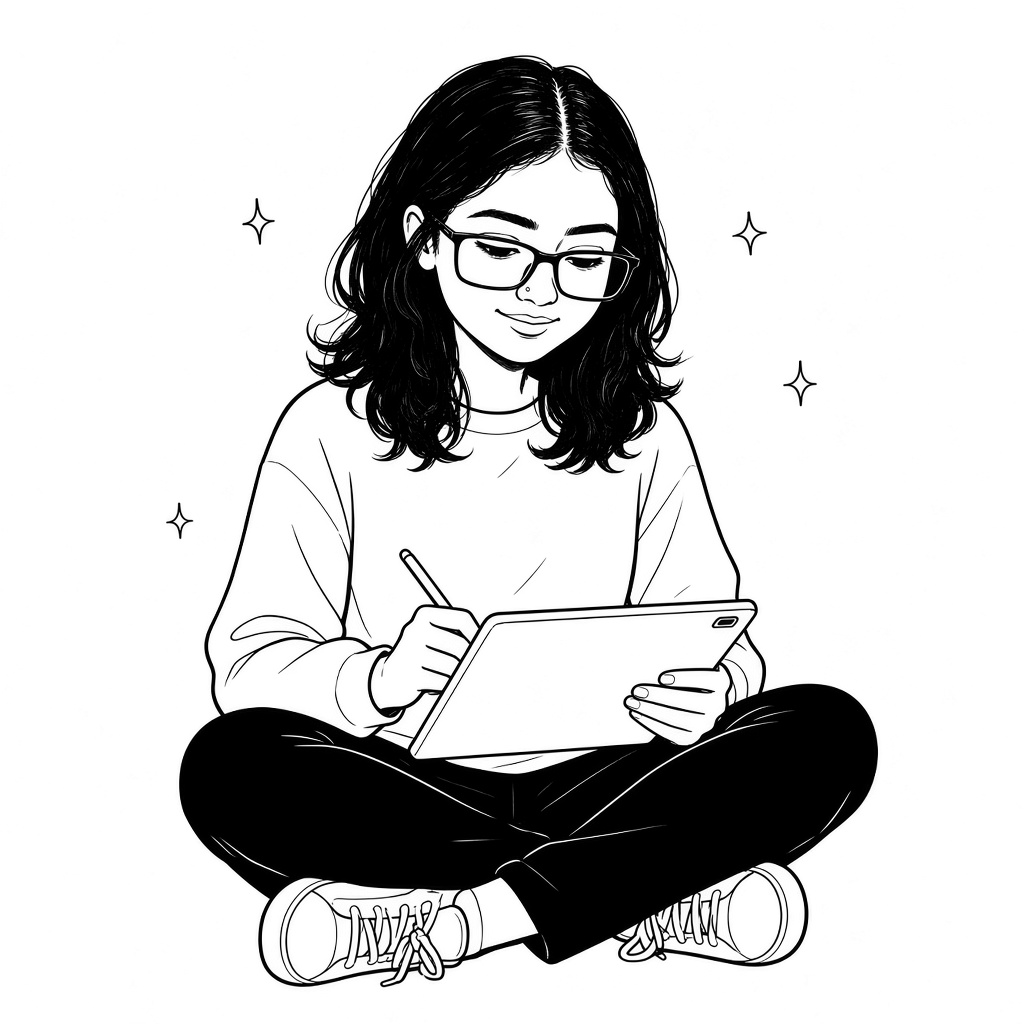
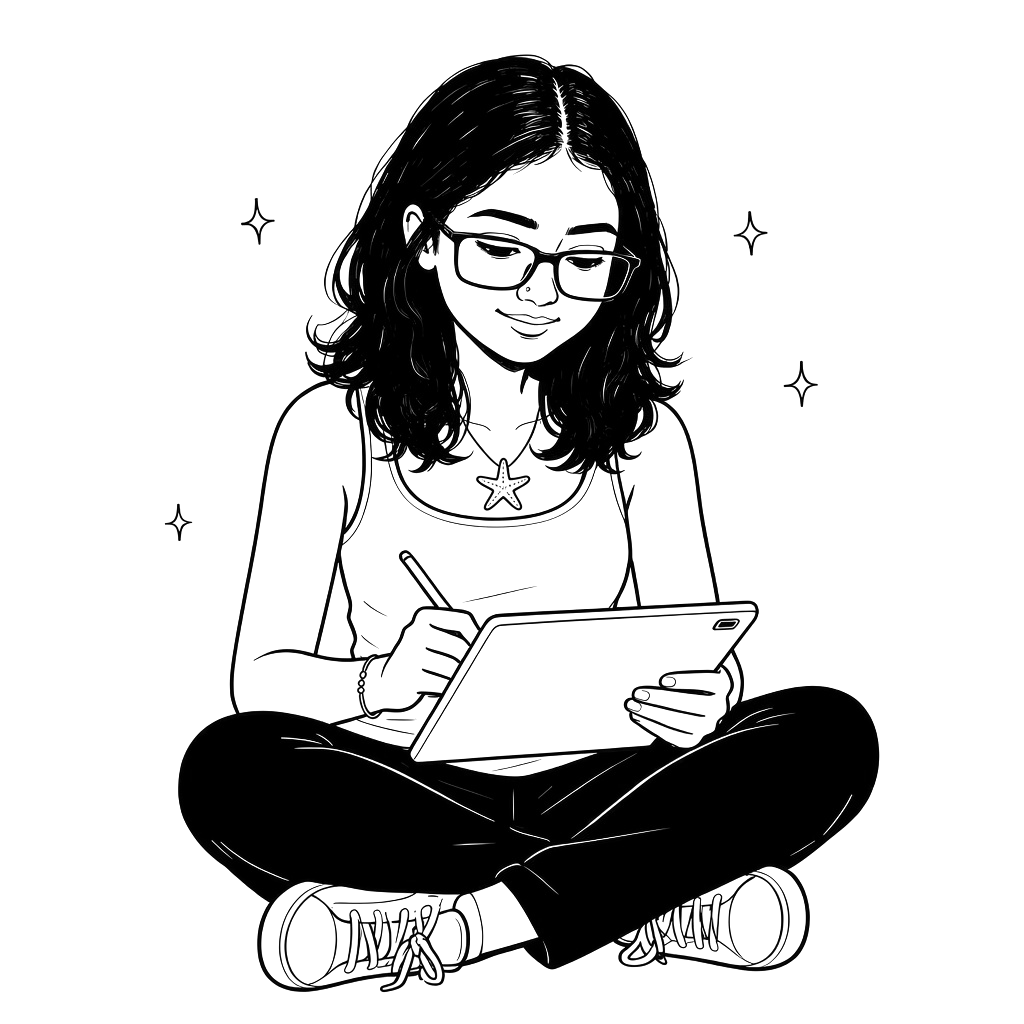
Update the hero illustration for dark mode and align the footer with the homepage.

diff --git a/src/components/SiteFooter.tsx b/src/components/SiteFooter.tsx
@@ -1,5 +1,5 @@
+import type { MouseEvent } from "react";
 import { Link } from "@tanstack/react-router";
-import { headerLinks, profileLinks } from "@/lib/nav";
 import {
   COVER_LETTER_PDF_FILENAME,
   COVER_LETTER_PDF_PATH,
@@ -8,23 +8,66 @@ import {
   RESUME_PDF_PATH,
 } from "@/lib/resume";
 
+const visitLinks = [
+  { href: "/", id: "top", label: "Home" },
+  { href: "/#work", id: "work", label: "Work experience" },
+  { href: "/#skills", id: "skills", label: "Skills" },
+  { href: "/#projects", id: "projects", label: "Projects" },
+  { href: "/#posters", id: "posters", label: "Posters" },
+  { href: "/#contact", id: "contact", label: "Contact me" },
+] as const;
+
+const profilePages = [
+  { to: "/about", label: "About" },
+  { to: "/experience", label: "Experience" },
+  { to: "/skills", label: "Skills" },
+] as const;
+
+function onSectionClick(event: MouseEvent<HTMLAnchorElement>, id: string) {
+  event.preventDefault();
+  if (id === "top") {
+    if (window.location.pathname !== "/") {
+      window.location.assign("/");
+      return;
+    }
+    window.setTimeout(() => {
+      window.scrollTo({ top: 0, behavior: "smooth" });
+      window.history.replaceState(null, "", "/");
+    }, 40);
+    return;
+  }
+  if (window.location.pathname !== "/") {
+    window.location.assign(`/#${id}`);
+    return;
+  }
+  window.setTimeout(() => {
+    const section = document.getElementById(id);
+    if (!section) return;
+    const top = section.getBoundingClientRect().top + window.scrollY - 72;
+    window.scrollTo({ top: Math.max(0, top), behavior: "smooth" });
+    window.history.replaceState(null, "", `/#${id}`);
+  }, 40);
+}
+
 export function SiteFooter() {
   return (
     <footer className="relative z-10 mt-16 border-t border-border/70">
       <div className="mx-auto grid max-w-6xl gap-10 px-4 py-12 sm:grid-cols-2 sm:px-6 lg:grid-cols-4">
         <div>
-          <p className="font-display text-3xl">Nikita Nautiyal</p>
+          <p className="font-display text-3xl">{PROFILE.name}</p>
           <p className="mt-2 text-sm text-muted-foreground">{PROFILE.title} · {PROFILE.location}</p>
         </div>
         <div className="flex flex-col gap-2 text-sm">
           <p className="font-mono text-xs uppercase tracking-widest text-muted-foreground">Visit</p>
-          <Link to="/" className="w-fit text-muted-foreground hover:text-primary">
-            Home
-          </Link>
-          {headerLinks.map((link) => (
-            <Link key={link.to} to={link.to} className="w-fit text-muted-foreground hover:text-primary">
+          {visitLinks.map((link) => (
+            <a
+              key={link.id}
+              href={link.href}
+              className="w-fit text-muted-foreground hover:text-primary"
+              onClick={(event) => onSectionClick(event, link.id)}
+            >
               {link.label}
-            </Link>
+            </a>
           ))}
           <Link to="/login" className="w-fit text-muted-foreground hover:text-primary">
             Log in
@@ -32,7 +75,7 @@ export function SiteFooter() {
         </div>
         <div className="flex flex-col gap-2 text-sm">
           <p className="font-mono text-xs uppercase tracking-widest text-muted-foreground">Profile</p>
-          {profileLinks.map((link) => (
+          {profilePages.map((link) => (
             <Link key={link.to} to={link.to} className="w-fit text-muted-foreground hover:text-primary">
               {link.label}
             </Link>

diff --git a/src/routes/index.tsx b/src/routes/index.tsx
@@ -125,27 +125,22 @@ const achievements = [
   {
     title: "Live Genuinest onboarding",
     detail: "Onboarding UI for the live app, then a Play Store launch.",
-    href: "https://genuinest.com/",
   },
   {
     title: "Four live store listings",
     detail: "App icons and store screenshots for the Trackzio apps.",
-    href: "https://trackzio.com",
   },
   {
     title: "15% higher retention",
     detail: "Identification journey, from research through the redesigned flow.",
-    href: "https://trackzio.com",
   },
   {
     title: "90k+ views",
     detail: "Product content and AI video for the Trackzio apps.",
-    href: "https://trackzio.com",
   },
   {
     title: "Expert portal",
     detail: "End-to-end UI for expert review on web and mobile.",
-    href: "https://trackzio.com",
   },
 ];
 
@@ -189,11 +184,18 @@ function Index() {
             Figma
           </p>
           <img
-            src="/nikita-line.png"
+            src="/nikita-line.png?v=5"
             alt="Line illustration of Nikita Nautiyal sitting and drawing"
             width={1024}
             height={1024}
-            className="pointer-events-none absolute left-1/2 top-1/2 z-10 w-[min(88vw,34rem)] -translate-x-1/2 -translate-y-[46%]"
+            className="pointer-events-none absolute left-1/2 top-1/2 z-10 w-[min(88vw,34rem)] -translate-x-1/2 -translate-y-[46%] dark:hidden"
+          />
+          <img
+            src="/nikita-line-dark.png?v=5"
+            alt="Colored illustration of Nikita Nautiyal sitting and drawing"
+            width={1024}
+            height={1024}
+            className="pointer-events-none absolute left-1/2 top-1/2 z-10 hidden w-[min(88vw,34rem)] -translate-x-1/2 -translate-y-[46%] dark:block"
           />
         </div>
         <p className="mx-auto mt-2 max-w-3xl text-lg leading-relaxed text-muted-foreground">
@@ -338,23 +340,10 @@ function Index() {
         <h2 className="mt-2 font-display text-3xl md:text-5xl">Achievements</h2>
         <div className="mt-8 grid gap-3">
           {achievements.map((item) => (
-            <a
-              key={item.title}
-              href={item.href}
-              target="_blank"
-              rel="noreferrer"
-              className="group flex items-center justify-between gap-4 rounded-2xl border border-border bg-card px-5 py-5 transition hover:border-primary sm:px-6"
-            >
-              <span className="min-w-0">
-                <span className="block font-display text-2xl leading-tight text-heading transition-colors group-hover:text-primary">
-                  {item.title}
-                </span>
-                <span className="mt-1 block text-sm text-muted-foreground">{item.detail}</span>
-              </span>
-              <span aria-hidden className="shrink-0 font-mono text-sm text-primary">
-                ↗
-              </span>
-            </a>
+            <article key={item.title} className="rounded-2xl border border-border bg-card px-5 py-5 sm:px-6">
+              <h3 className="font-display text-2xl leading-tight text-heading">{item.title}</h3>
+              <p className="mt-1 text-sm text-muted-foreground">{item.detail}</p>
+            </article>
           ))}
         </div>
       </section>

diff --git a/src/lib/nav.ts b/src/lib/nav.ts
@@ -1,10 +1,3 @@
-export const headerLinks = [
-  { to: "/projects", label: "Case studies" },
-  { to: "/about", label: "About" },
-  { to: "/blog", label: "Journal" },
-  { to: "/contact", label: "Contact" },
-] as const;
-
 export const profileLinks = [
   { to: "/about", label: "About", hint: "Profile, education, and writing" },
   { to: "/experience", label: "Experience", hint: "Product design roles" },
